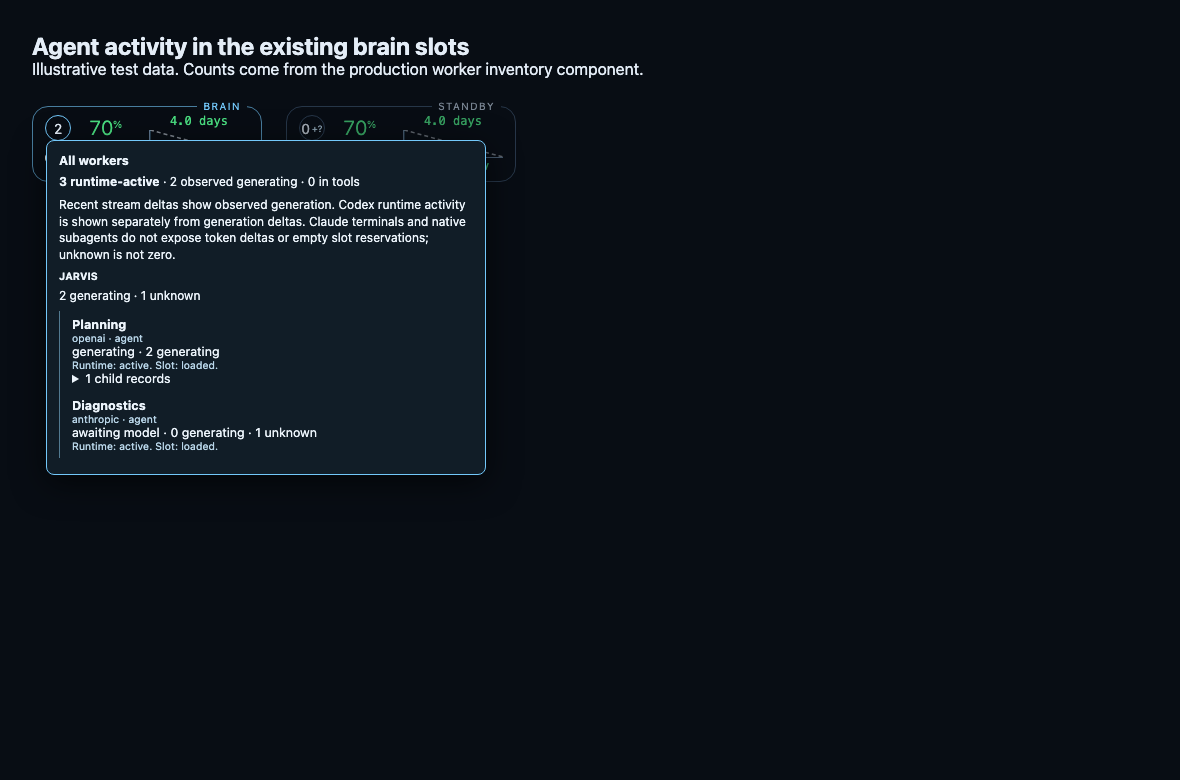
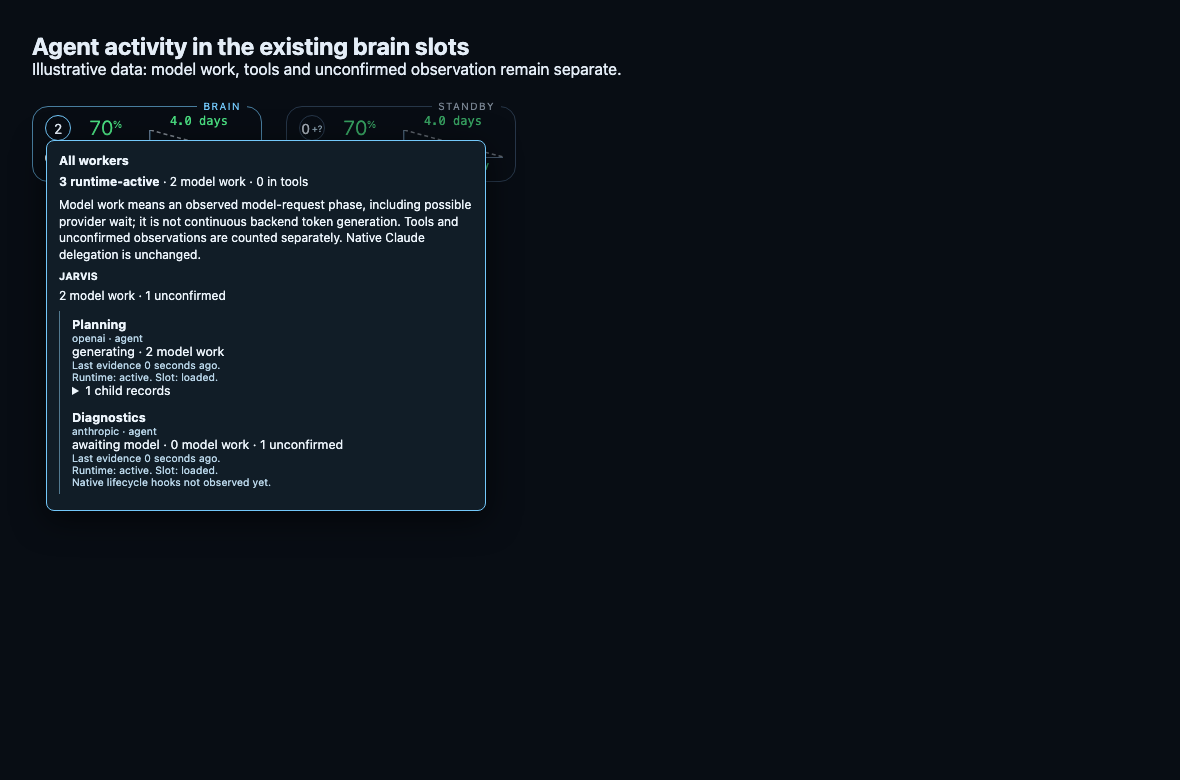
Complete native observation checks and prepare deployment handoff

diff --git a/frontend/src/WorkerStatus.tsx b/frontend/src/WorkerStatus.tsx
@@ -47,9 +47,10 @@ export function WorkerTotal({ provider, compact = false }: { provider?: string; 
     </div>
   </details>;
 }
-export function WorkerFamily({ sessionId }: { sessionId: string }) {
+export function WorkerFamily({ sessionId, provider }: { sessionId: string; provider?: string | null }) {
   const { value, error } = useWorkers();
-  const root = value?.workers.find(w => w.session_id === sessionId);
+  const matches = value?.workers.filter(w => w.session_id === sessionId && (!provider || w.provider === provider)) ?? [];
+  const root = matches.length === 1 ? matches[0] : undefined;
   return <span className="agent-subagents" title={error ?? value?.coverage}>
     {root ? words(root.counts) : "Activity unknown"}
   </span>;

diff --git a/frontend/src/AgentsControl.tsx b/frontend/src/AgentsControl.tsx
@@ -226,7 +226,7 @@ function AgentItem({ agent, switchable, onToggle }: {
         {/* Its needs-board count, in the upper right, zero included. */}
         <span className={agent.needs > 0 ? "agent-needs" : "agent-needs none"}>{agent.needs}</span>
         <AgentProvider provider={agent.provider} />
-        <WorkerFamily sessionId={agent.session_id} />
+        <WorkerFamily sessionId={agent.session_id} provider={agent.provider} />
       </button>
       {/* Only in the All view; in Active the agent's box takes the
           whole row. */}

diff --git a/jarvis/worker_activity.py b/jarvis/worker_activity.py
@@ -209,3 +209,61 @@ class ManagedStream:
             for sid in self.children:
                 _children.pop(sid, None)
                 _managed.pop(('anthropic', sid), None)
+
+
+# Incremental native-transcript evidence. Completed message content is discarded
+# immediately after its lifecycle fields have been reduced. First observation is
+# bounded; an incomplete/oversized record produces a coverage gap, not activity.
+_file_cache = {}
+FILE_READ_BYTES = 4 * 1024 * 1024
+
+
+def file_observation(path, provider):
+    import json
+    from pathlib import Path
+    path = Path(path)
+    key = (provider, str(path))
+    try:
+        stat = path.stat()
+        with _lock:
+            saved = _file_cache.get(key)
+            if saved and saved['inode'] == stat.st_ino and saved['offset'] <= stat.st_size:
+                offset, previous = saved['offset'], saved['evidence']
+            else:
+                offset, previous = max(0, stat.st_size - FILE_READ_BYTES), None
+            if saved and offset == stat.st_size:
+                return dict(previous)
+            skipped = stat.st_size - offset > FILE_READ_BYTES
+            if skipped:
+                offset, previous = stat.st_size - FILE_READ_BYTES, None
+            with path.open('rb') as source:
+                source.seek(offset)
+                if previous is None and offset:
+                    source.readline(FILE_READ_BYTES)  # Initial seek may begin inside a record.
+                    offset = source.tell()
+                raw = source.read(FILE_READ_BYTES)
+            end = raw.rfind(b'\n')
+            if end < 0:
+                evidence = dict(previous or {'state': 'unknown', 'source': 'incomplete_transcript'})
+                if len(raw) == FILE_READ_BYTES:
+                    evidence = {'state': 'unknown', 'source': 'oversized_transcript_record',
+                                'coverage_gap': 'A transcript record exceeded the observation limit.'}
+                    offset = stat.st_size
+            else:
+                objects = []
+                for line in raw[:end].splitlines():
+                    try:
+                        obj = json.loads(line)
+                        if isinstance(obj, dict): objects.append(obj)
+                    except (ValueError, UnicodeDecodeError):
+                        continue
+                evidence = observation(objects, provider, previous)
+                offset += end + 1
+            if skipped:
+                evidence['coverage_gap'] = 'Transcript ingestion skipped a burst larger than its observation limit.'
+            _file_cache[key] = {'inode': stat.st_ino, 'offset': offset, 'evidence': evidence}
+            while len(_file_cache) > 4096:
+                _file_cache.pop(next(iter(_file_cache)))
+            return dict(evidence)
+    except OSError:
+        return {'state': 'unknown', 'source': 'transcript_unavailable'}

diff --git a/jarvis/worker_hooks.py b/jarvis/worker_hooks.py
@@ -32,7 +32,9 @@ def record(root: Path, obj: dict, now=None):
     agent = obj.get('agent_id')
     event = {'kind': kind, 'session_id': sid[:128], 'agent_id': str(agent)[:128] if agent else None,
              'tool_use_id': str(obj.get('tool_use_id') or '')[:128],
-             'tool_name': str(obj.get('tool_name') or '')[:80], 'at': now}
+             'tool_name': str(obj.get('tool_name') or '')[:80], 'at': now,
+             'completed_tools': [str(call.get('tool_use_id'))[:128] for call in obj.get('tool_calls', [])[:1000]
+                                 if isinstance(call, dict) and call.get('tool_use_id')]}
     directory = root / 'worker-observations'
     directory.mkdir(parents=True, exist_ok=True, mode=0o700)
     path = directory / f'{time.time_ns()}-{uuid.uuid4().hex}.json'
@@ -68,16 +70,20 @@ def observations(root: Path, now: float):
                 continue
             sid = event.get('agent_id') or event['session_id']
             row = groups.setdefault(sid, {'session_id': sid, 'parent_id': event['session_id'] if event.get('agent_id') else None,
-                                         'tools': set(), 'coverage': 'native_hooks'})
+                                         'tools': set(), 'finished_tools': set(), 'coverage': 'native_hooks'})
             kind, tool = event['kind'], event.get('tool_use_id')
             phase = None
             if kind == 'PreToolUse':
+                if tool and tool in row['finished_tools']:
+                    continue  # An asynchronous start arrived after its completion.
                 if tool: row['tools'].add(tool)
                 phase = 'tool_wait'
             elif kind in ('PostToolUse', 'PostToolUseFailure'):
                 row['tools'].discard(tool)
+                if tool: row['finished_tools'].add(tool)
                 phase = 'tool_wait' if row['tools'] else 'awaiting_model'
             elif kind == 'PostToolBatch':
+                row['finished_tools'].update(event.get('completed_tools') or [])
                 row['tools'].clear()
                 phase = 'awaiting_model'
             elif kind == 'PermissionRequest': phase = 'human_wait'
@@ -104,7 +110,7 @@ def install(config: Path, data: Path):
             if not rule['hooks']:
                 rules.remove(rule)
         if not any(h.get('command') == command for rule in rules for h in rule.get('hooks', [])):
-            rules.append({'hooks': [{'type': 'command', 'command': command, 'timeout': 2}]})
+            rules.append({'hooks': [{'type': 'command', 'command': command, 'timeout': 2, 'async': True}]})
     config.parent.mkdir(parents=True, exist_ok=True)
     temporary = config.with_suffix('.worker-observer.tmp')
     temporary.write_text(json.dumps(body, indent=2) + '\n')

diff --git a/jarvis/session_watch.py b/jarvis/session_watch.py
@@ -1222,9 +1222,9 @@ def _agent_facts(path: Path, st: os.stat_result) -> dict:
         hit = _AGENT_CACHE.get(str(path))
     if hit is not None and hit[0] == key:
         return hit[1]
-    from jarvis.worker_activity import observation
+    from jarvis.worker_activity import file_observation
     meta = read_agent_meta(path)
-    evidence = observation(tail_objects(path, _AGENT_TAIL_BYTES), PROVIDER)
+    evidence = file_observation(path, PROVIDER)
     finished = meta["native_finished"]
     if finished is None:
         finished = _finished(path)
@@ -1750,9 +1750,9 @@ def _claude_sessions(entries: list[RosterEntry] | None, roots: list[Path] | None
         # both roots with its file under the second one read as `fresh` —
         # "not started" — which is the one state JARVIS never announces.
         roots_here = _roots_of(group, primary)
-        from jarvis.worker_activity import observation
-        activity_objects = next((tail_objects(p, _AGENT_TAIL_BYTES) for root in roots_here
-                                 if (p := transcript_path(root, primary.cwd, session_id)).exists()), [])
+        from jarvis.worker_activity import file_observation
+        activity_evidence = next((file_observation(p, PROVIDER) for root in roots_here
+                                 if (p := transcript_path(root, primary.cwd, session_id)).exists()), {})
         recap = _first_recap(roots_here, primary.cwd, session_id)
         subagents, agents_capped = read_subagents(roots_here, primary.cwd, session_id, at, limit=None)
         agents_active = working_agents(subagents)
@@ -1761,7 +1761,7 @@ def _claude_sessions(entries: list[RosterEntry] | None, roots: list[Path] | None
         steerable_entry = next((e for e in live if e.steerable), None)
         sessions.append(SessionState(
             session_id=session_id,
-            worker_activity=observation(activity_objects, PROVIDER),
+            worker_activity=activity_evidence,
             runtime_status={"status": "active" if live and status.state == WORKING else "idle" if live else "offline",
                             "observed_at": at, "source": "claude_roster"},
             cwd=primary.cwd,

diff --git a/tests/test_header_lines.py b/tests/test_header_lines.py
@@ -354,6 +354,13 @@ PRINTERS = _functions_that_print_a_foreign_field()
 # to-do: every one of them is a place where a session's own words DO reach a
 # string, and the argument is why that string is safe.
 EXEMPT = {
+    "codex_runtime._request": "Formats a fixed internal RPC method in a timeout/error, never a spoken header or brain instruction; runtime failures expose only the exception class in inventory JSON.",
+    "codex_runtime.event_evidence": "Formats a provider event-method name as evidence-source metadata; no text delta or tool argument is retained and the inventory tool output is taint-wrapped.",
+    "session_watch.build_snapshot": "Formats provider discovery failure metadata from a configured provider name and exception class; the inventory exposes it as JSON through the taint-wrapped list_workers tool, not a spoken line.",
+    "worker_activity.observation": "Formats provider and record type as a source identifier inside evidence JSON; the metadata is returned by list_workers under its registered untrusted-content wrapper.",
+    "worker_hooks.observations": "Formats a hook event kind as metadata in the native observer; the resulting inventory is JSON and list_workers is registered as tainting, with no spoken-header path.",
+    "worker_hooks.record": "Formats local event filenames only from clock and UUID values. Its JSON contains metadata, never prompts or tool arguments; it produces no hook stdout or human narration.",
+    "worker_inventory.build": "Formats stable provider/session IDs and coverage messages inside JSON. React renders these as text, and the identical list_workers tool output is registered as tainting rather than interpolated into a trusted header.",
     "project_store.answer_accomplishment": (
         "it changes an accomplishment's state on his word; its refusals are fixed words that name no record. Driven by tests/test_project_records.py"),
     "project_store.change_work": (

diff --git a/tests/test_worker_hooks.py b/tests/test_worker_hooks.py
@@ -104,3 +104,33 @@ def test_brain_request_and_parallel_tools_have_distinct_counts():
     assert result['total']['model_work']==0 and result['total']['tool_wait']==1
     events.append({'kind':'tool','stage':'completed','provider':'openai','call_id':'b','at':100})
     assert build(Snapshot([],100),now=100,brain_events={'events':events})['total']['model_work']==1
+
+
+def test_incremental_request_identity_survives_separate_reads(tmp_path):
+    path=tmp_path/'worker.jsonl'
+    path.write_text(json.dumps({'type':'api-request','id':'r','timestamp':'2026-01-01T00:00:01Z'})+'\n')
+    assert activity.file_observation(path,'anthropic')['request_id']=='r'
+    with path.open('a') as out:
+        out.write(json.dumps({'type':'assistant','requestRef':'r','timestamp':'2026-01-01T00:00:02Z',
+                             'message':{'stop_reason':'end_turn','content':[{'type':'thinking'}]}})+'\n')
+    result=activity.file_observation(path,'anthropic')
+    assert result['state']=='model_work' and result['request_id']=='r'
+    assert activity.file_observation(path,'anthropic')==result
+    path.write_text('{}\n')
+    assert activity.file_observation(path,'anthropic')['state']=='unknown'
+
+
+def test_partial_transcript_line_waits_for_completion(tmp_path):
+    path=tmp_path/'partial.jsonl';path.write_text('{"type":"api-')
+    assert activity.file_observation(path,'anthropic')['state']=='unknown'
+    with path.open('a') as out:out.write('request","id":"r"}\n')
+    assert activity.file_observation(path,'anthropic')['request_id']=='r'
+
+
+def test_async_late_tool_start_does_not_reopen_completed_call(tmp_path):
+    now=time.time()
+    for kind in ['PostToolUse','PreToolUse']:
+        hooks.record(tmp_path,{'hook_event_name':kind,'session_id':'root','tool_use_id':'done'},now)
+    rows,_=hooks.observations(tmp_path,now+.1)
+    assert rows[0]['state']=='awaiting_model'
+    assert not rows[0]['tools']

diff --git a/jarvis/worker_inventory.py b/jarvis/worker_inventory.py
@@ -24,6 +24,8 @@ def build(snapshot, names=None, runs=(), brain_events=None, now=0, workflows=(),
         streamed = worker_activity.managed(provider, sid)
         latest = max((streamed, evidence or {}), key=lambda e: e.get('observed_at') or 0)
         live = worker_activity.current(latest, now)
+        if latest.get('coverage_gap'):
+            gaps.append(latest['coverage_gap'])
         # Session completion/liveness beats any previously observed output.
         if not worker_activity.managed(provider, sid) and state in ('gone', 'idle', 'finished', 'needs_you'):
             live.update(state='idle' if state != 'gone' else 'offline', generating=False, model_work=False)
@@ -86,7 +88,7 @@ def build(snapshot, names=None, runs=(), brain_events=None, now=0, workflows=(),
             continue  # Old hooks do not resurrect an exited session.
         row['hook_observed_at'] = hook.get('observed_at')
         if (hook.get('observed_at') or 0) > (row['activity'].get('observed_at') or 0):
-            evidence = {k: v for k, v in hook.items() if k not in ('tools', 'parent_id', 'session_id')}
+            evidence = {k: v for k, v in hook.items() if k not in ('tools', 'finished_tools', 'parent_id', 'session_id')}
             if now - evidence['observed_at'] > worker_activity.MODEL_REQUEST_LEASE_SECONDS:
                 evidence.update(last_phase=evidence['state'], state='unknown')
             row['activity'] = worker_activity.current(evidence, now)

diff --git a/docs/planning/ui-agent-status/deployment-handoff.md b/docs/planning/ui-agent-status/deployment-handoff.md
@@ -1,0 +1,34 @@
+# UI agent status deployment handoff
+
+## Current result
+
+Native observation is implemented on `feature/ui-agent-status`. Claude still creates its own subagents. The new model-work total is a count of observed model-request phases, not an instantaneous billing counter. Tool execution, unknown coverage and slot occupancy remain separate. The same inventory JSON is available to the UI and the brain tool.
+
+The implementation uses native request IDs and response references, incremental transcript observation, native completion sidecars, nested parent metadata and neutral lifecycle hooks. Thinking-block `end_turn` no longer finishes a child. Completion-sidecar changes invalidate the transcript cache, and a newer resumed request supersedes an older completion marker. Long model phases without renewed evidence become unconfirmed after 120 seconds, retaining the last phase and evidence age; they are not called idle.
+
+The default Claude subscription login prevented a fresh model-stream smoke test: `Failed to authenticate: OAuth session expired and could not be refreshed`. The isolated CLI did execute SessionStart, UserPromptSubmit and SessionEnd through the recorder. This is not evidence that a new authenticated model turn succeeded. Existing sessions and credentials were not changed. Historical native request/response records and controlled lifecycle tests cover child and tool transitions.
+
+## Deployment owner: Planning
+
+1. Wait for the feature PR checks and review. Merge only through the authorized release path; preserve the live checkout's capture changes.
+2. Deploy the resulting application using the existing update/restart process. The worker route, frontend counters and Codex observer ship together.
+3. From the deployed checkout and its Python, install the native observer into the Claude settings file actually used by the local workers. Use the actual application's data directory, not this worktree's data directory:
+
+   ```sh
+   .venv/bin/python -m jarvis.worker_hooks --data-dir "$JARVIS_DATA_DIR" --install "$HOME/.claude/settings.json"
+   ```
+
+   `JARVIS_DATA_DIR` must be set to the live application's data directory before this command. If a worker uses a different Claude config root, install into that root's settings too, retaining its existing hooks. Installation is explicit and has not been run against live settings by the builder. The recorder's command points at the deployed Python and module; rerunning installation replaces only its own marker and preserves unrelated settings. Symbolic-link settings require choosing the actual target rather than replacing the link.
+4. The hooks run asynchronously and return no approval, denial, prompt content or injected instructions. They record only IDs, lifecycle kinds, tool names and receipt time. Reordered tool starts cannot reopen a completed call. Observation files are under `data/worker-observations`, excluded from source control, with a ten-minute reading window and bounded reconstruction. Recorder process startup measured 182.4 ms median and 189.1 ms maximum across twenty isolated invocations; asynchronous configuration avoids blocking tools for that startup.
+5. Confirm `/api/workers` reports the provider inventories, model-work count, tool count, unknown count, parent links and coverage. The empty circle in each existing brain account shows that provider's model-work total; opening it shows the combined hierarchy. Each existing agent row includes its family count.
+6. Do not claim hooks are loaded merely because installation succeeded. Each worker displays whether native lifecycle events have actually been observed. An already-running session's next event establishes coverage; do not restart a busy worker to force it. If its current configuration does not reload, report it as not yet observed until a normal idle-boundary restart is possible.
+7. Refresh the expired Claude login through its normal supported login flow before requiring a new authenticated CLI smoke turn. Exercise a native parent and child, parallel tools, parent idle/background child, and end-of-turn completion; compare the visible counts to the source events. Record any missing coverage on the Work item.
+8. After release and the live check, update and deliver `deployment-package.json` through the package factory under Planning's session, linked to UI agent status. Do not present an unreleased branch as a deployed result.
+
+## Rollback
+
+Roll back the application through the existing release path. Remove only hook entries whose command contains `jarvis-native-worker-v1`; preserve all other hook entries and settings. No Claude conversations or native delegation state need migrating or restoring. The observer never starts model turns or answers approvals.
+
+## Validation
+
+The worker/native lifecycle/subagent/runtime/run-executor suites pass locally. The header-line audit now explicitly classifies new metadata-only formatters and retains the untrusted wrapper on `list_workers`. The frontend production build passes. Isolated production components render the expected fixture counts without browser exceptions. Screenshots are illustrative data, not a live deployment claim. CI remains the final merged-branch check.

diff --git a/docs/planning/ui-agent-status/review.md b/docs/planning/ui-agent-status/review.md
@@ -6,7 +6,7 @@ Work item: `work-6f00ebb716c2` (UI agent status).
 
 The proposal to replace native Claude delegation with hosted workers is withdrawn. The revised [native activity plan](native-activity-plan.md) preserves native terminal sessions and native subagents. It separates model-request work, tool execution, idle and unconfirmed observation, using request boundaries and native lifecycle hooks. It includes the observed premature-completion defect caused by thinking blocks carrying `end_turn`.
 
-The committed counters currently show recent generation evidence and unknown coverage. They have not yet been converted to the revised model-work phases. This branch remains an implementation in progress, not a complete live all-worker count. The native observer, phase reducer and revised count labels are the next work; no active sessions have been changed.
+The committed counters now show model-work phases, tool execution and unconfirmed coverage. Native hooks, request/response matching and completion-sidecar handling are implemented. Deployment and authenticated live validation remain; see deployment-handoff.md. No active sessions have been changed.
 
 ## Implemented
 
@@ -16,7 +16,7 @@ The committed counters currently show recent generation evidence and unknown cov
 - Claude managed runs request partial messages. Model deltas and thinking-token increments update the root worker. Task lifecycle and child messages create separate child records, preserve nested parents, exclude shell jobs, and never credit child output to the parent. Native child output remains lifecycle-only coverage. Process cleanup removes its in-memory observations.
 - Claude CLI roster and transcripts provide process, turn and tool phases; native children retain their parent metadata. No transcript write is treated as current token generation.
 - Managed run occupied, queued and free slot counts are independent of generation. External unreported slot reservations are unknown.
-- The empty `weekly-avatar` positions in the existing `WeeklyUsage` brain accounts now show each provider's generation count and missing coverage. Opening a count shows the combined total and project/parent hierarchy. Existing agent rows show family counts. The surrounding layout remains intact.
+- The empty `weekly-avatar` positions in the existing `WeeklyUsage` brain accounts now show each provider's model-work count and missing coverage. Opening a count shows the combined total and project/parent hierarchy. Existing agent rows show family counts. The surrounding layout remains intact.
 - Discovery failures, stale snapshots, absent workflow workers and malformed parent cycles surface as coverage gaps. Poll failure clears the visible count. A restart cannot recover an active claim from stored job status.
 
 ## Local review
@@ -34,4 +34,4 @@ Runtime/session/inventory/executor regression tests passed. The frontend product
 
 ## Handoff
 
-The inventory and runtime adapters are implemented in the isolated `feature/ui-agent-status` worktree. Planning owns delivery of the Work-linked decision package and any live deployment. The complete all-worker view remains unfinished until native observation and the revised phase reducer cover those workers. Do not mark this Work item complete because the inventory is present.
+The inventory and runtime adapters are implemented in the isolated `feature/ui-agent-status` worktree. Planning owns delivery of the Work-linked decision package and any live deployment. The implementation awaits release and live coverage validation, including an authenticated fresh Claude test. Do not mark this Work item complete because the inventory is present.
